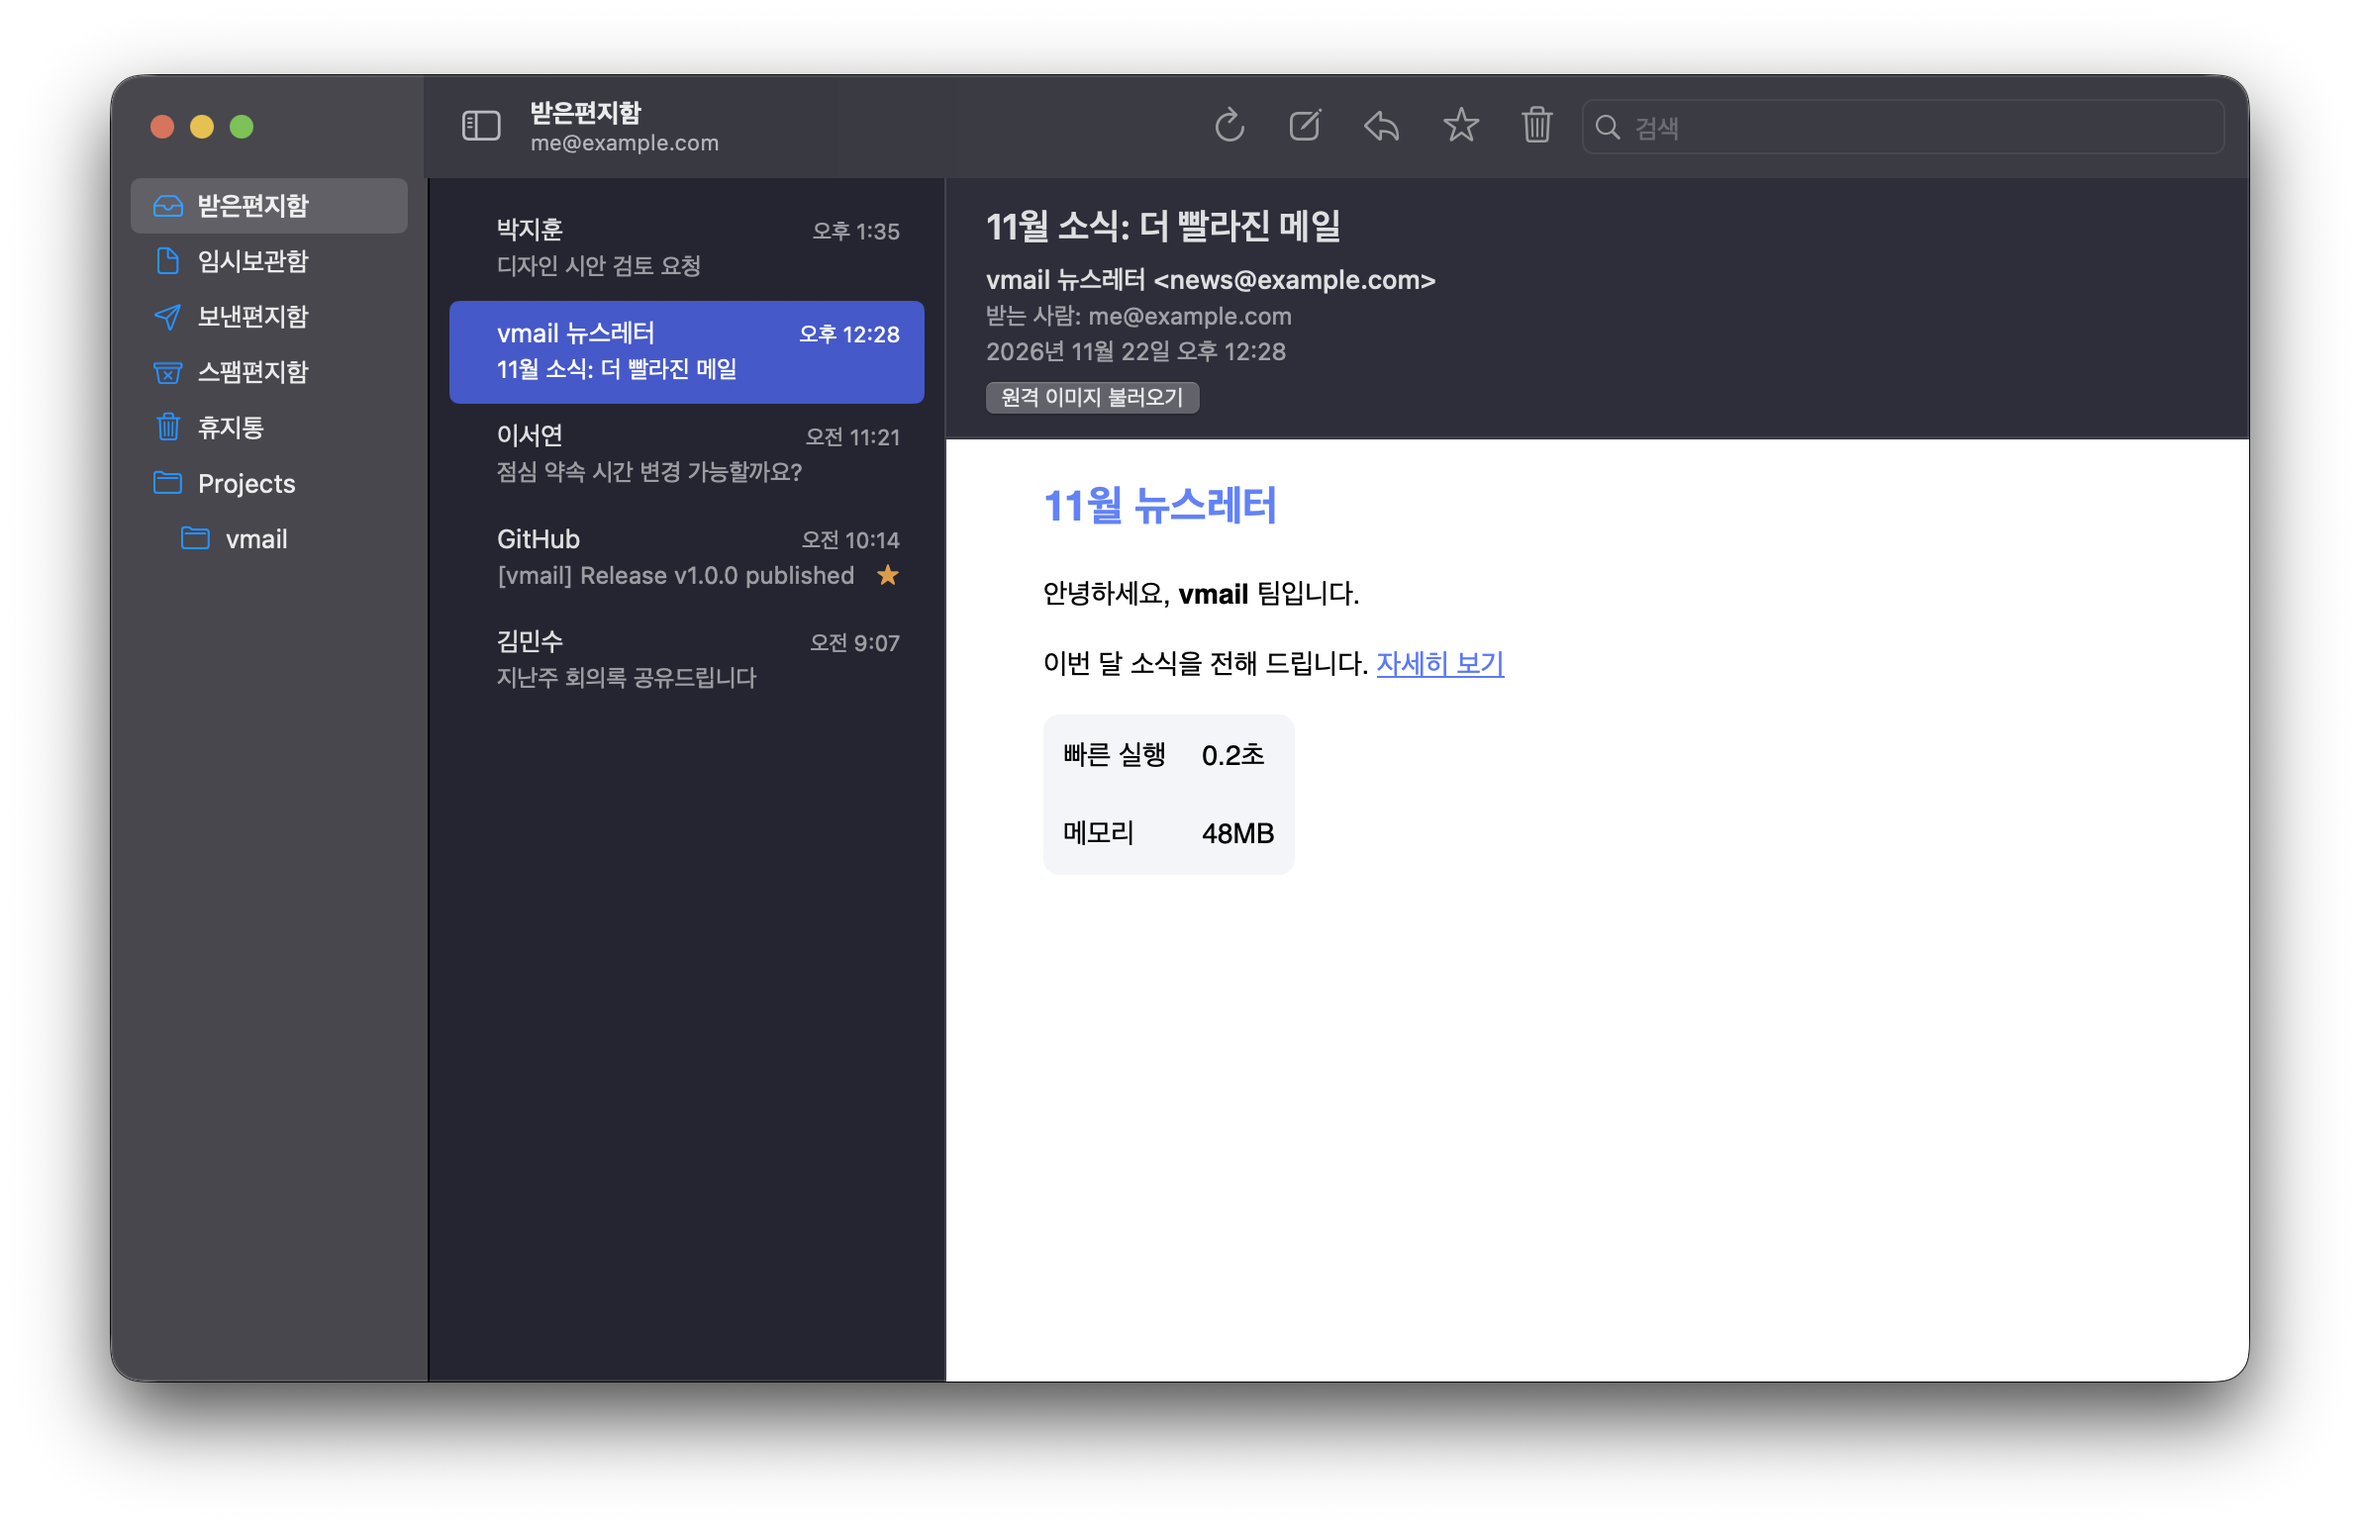
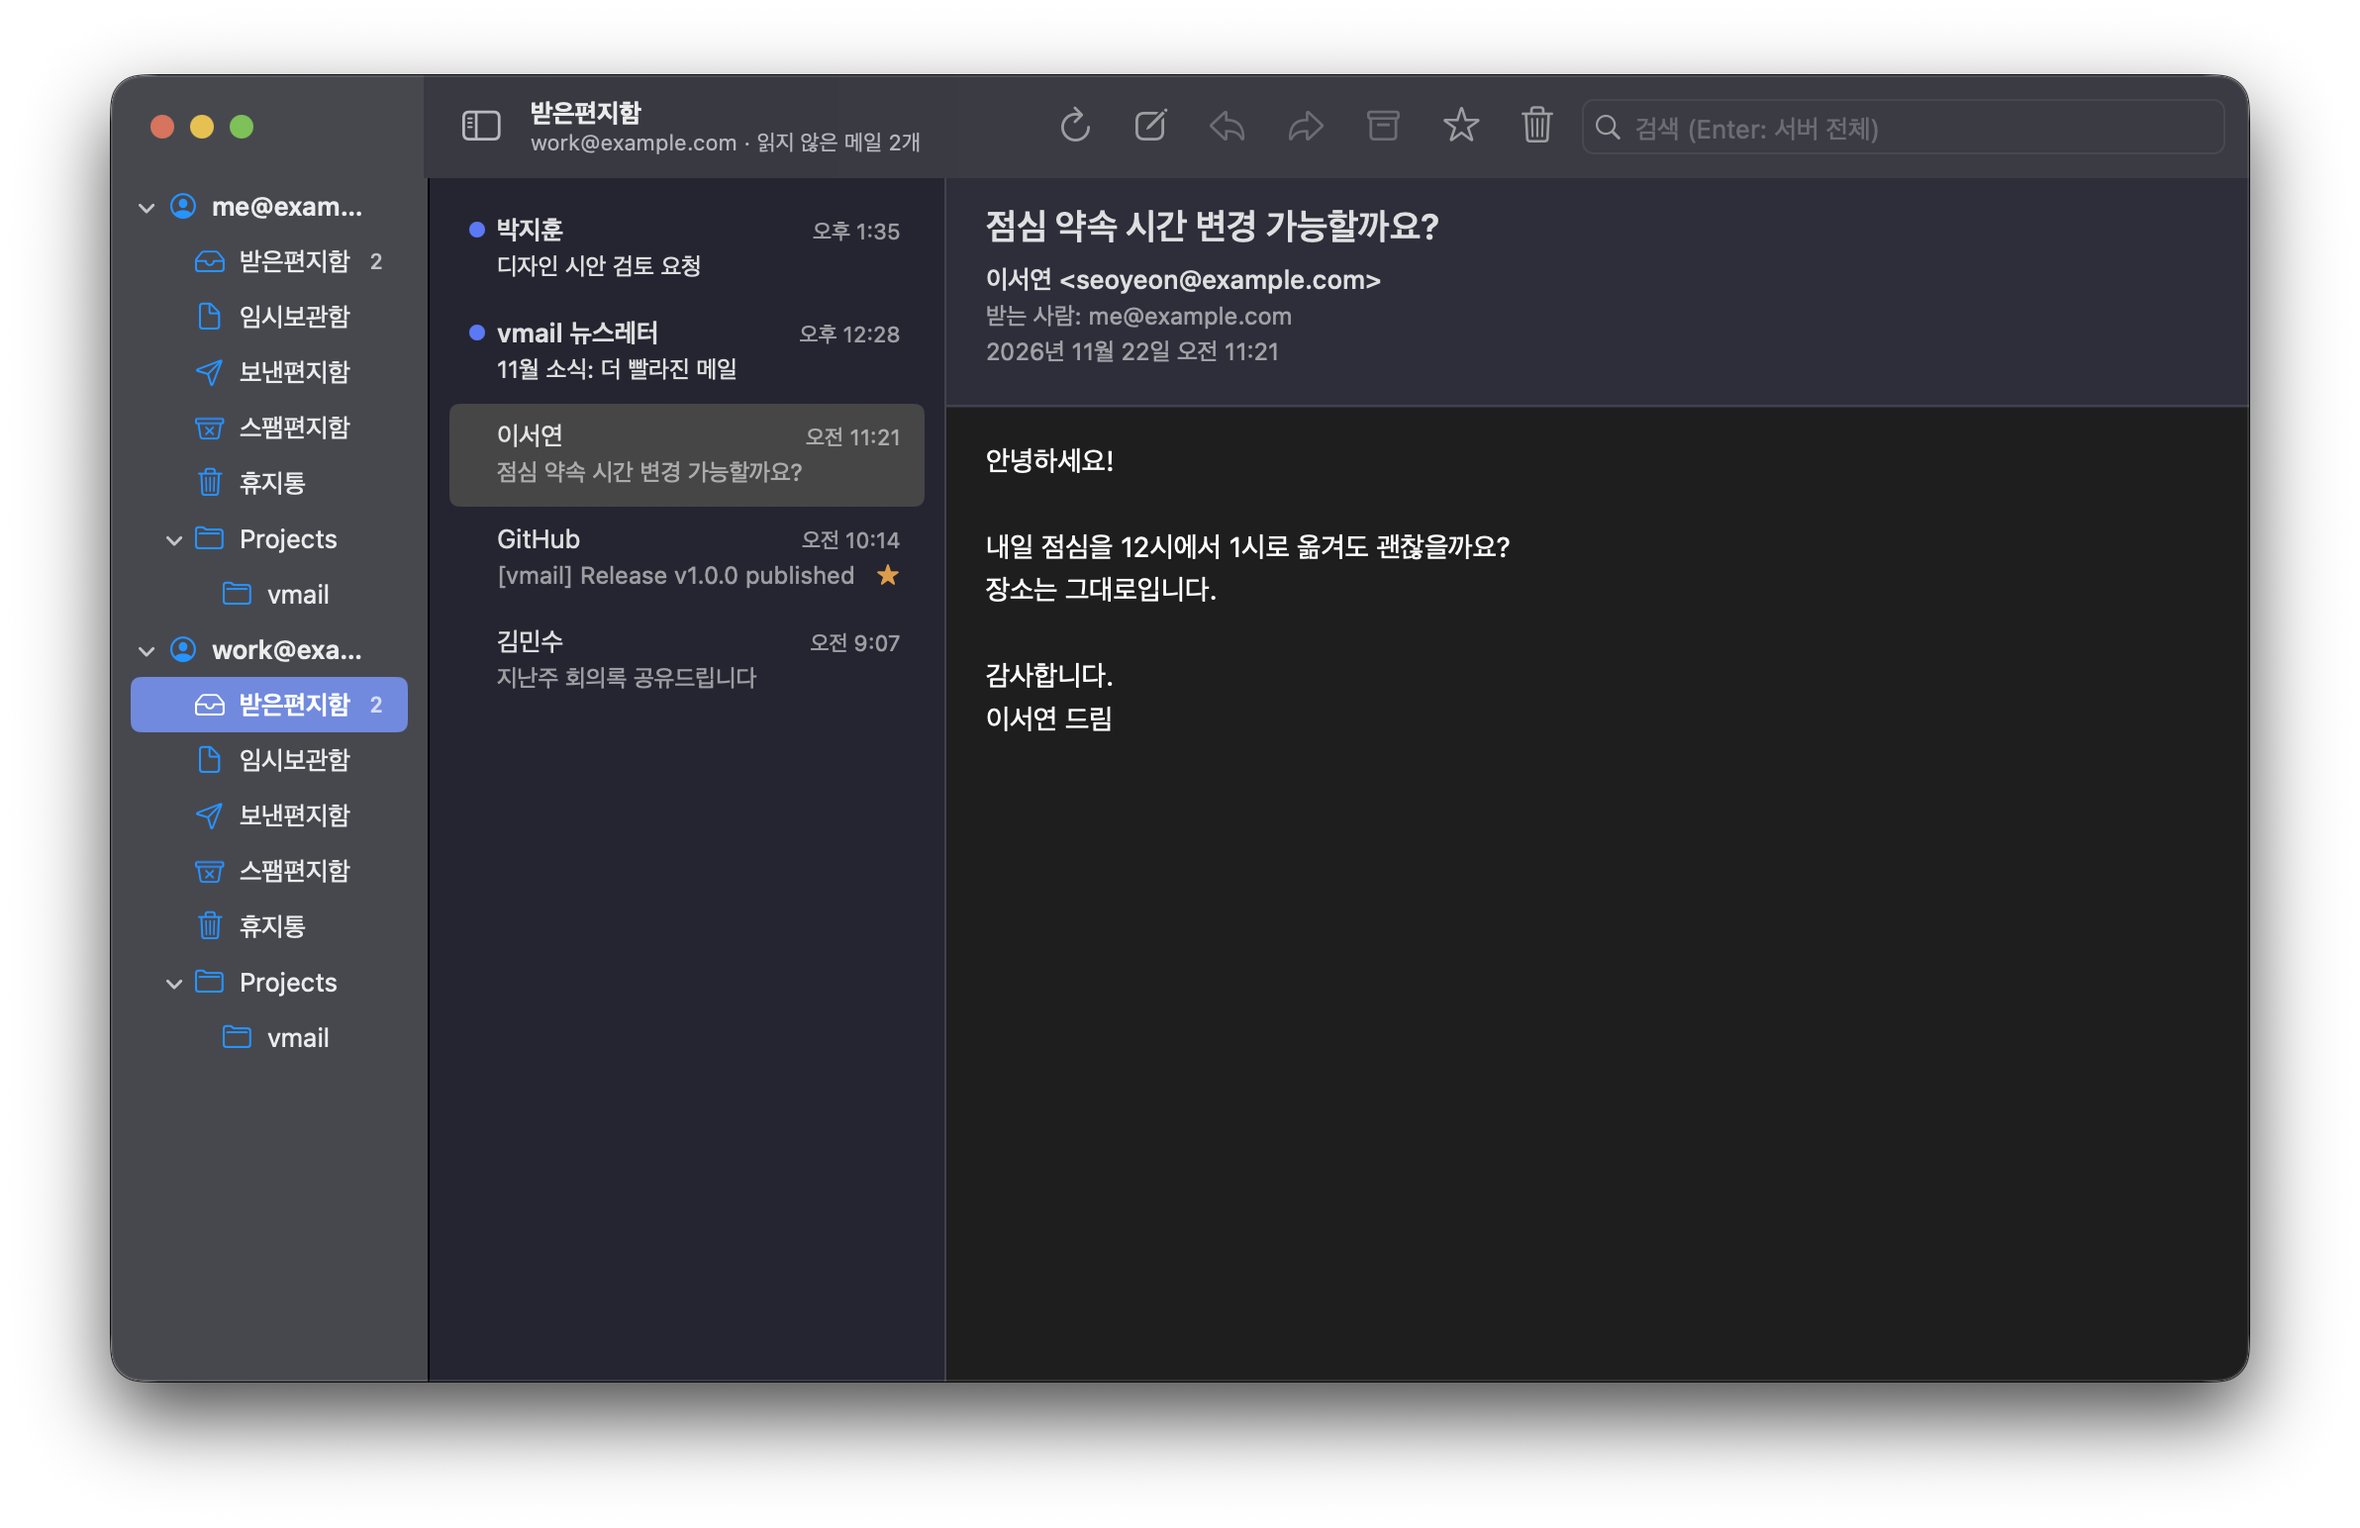
feat: 후원하기·GitHub 링크 (정보 창, 앱 메뉴, 설정 일반 탭), 랜딩·README 설치 안내 갱신

diff --git a/docs/index.html b/docs/index.html
@@ -50,6 +50,7 @@
     font: 14px/1.7 ui-monospace, "SF Mono", Menlo, monospace;
   }
   .note { text-align: center; color: var(--muted); font-size: 15px; margin-top: 18px; }
+  .note a { color: var(--accent); }
   footer { border-top: 1px solid var(--line); padding: 32px 0 48px; text-align: center; color: var(--muted); font-size: 14px; }
   footer a { color: inherit; }
 </style>
@@ -61,33 +62,36 @@
     <p class="lead">macOS를 위한 네이티브 메일 앱. 열면 바로 보이고, 필요한 것만 있습니다.</p>
     <div class="cta">
       <a class="btn" href="https://github.com/seongilp/vmail">GitHub에서 보기</a>
-      <a class="btn ghost" href="#install">직접 빌드하기</a>
+      <a class="btn ghost" href="#install">설치하기</a>
     </div>
   </header>
 
   <div class="wrap shot">
-    <img src="screenshot.png" alt="vmail 메인 화면: 사서함, 메시지 목록, 본문의 3단 구성" width="2384" height="1544">
+    <img src="screenshot.png" alt="vmail 메인 화면: 계정별 사서함 트리, 메시지 목록, 본문의 3단 구성" width="2384" height="1544">
   </div>
 
   <section class="wrap">
     <h2>필요한 건 다 있고,<br>군더더기는 없습니다.</h2>
     <div class="grid">
       <div class="card"><h3>네이티브</h3><p>AppKit과 시스템 프레임워크만 사용합니다. 외부 의존성 0개.</p></div>
+      <div class="card"><h3>여러 계정</h3><p>Gmail, iCloud, 네이버를 한 창에서. 앱 암호는 복사만 하면 로그인됩니다.</p></div>
       <div class="card"><h3>즉시 표시</h3><p>목록을 디스크에 캐시해 실행하자마자 메일이 보입니다.</p></div>
       <div class="card"><h3>안전한 본문</h3><p>스크립트는 끄고 원격 이미지는 기본 차단합니다.</p></div>
+      <div class="card"><h3>자동 분류</h3><p>규칙으로 새 메일을 옮기고, 읽음 처리하고, 정리합니다.</p></div>
+      <div class="card"><h3>부재중 응답</h3><p>기간을 정해 두면 자리를 비운 동안 대신 답장합니다.</p></div>
+      <div class="card"><h3>서버 검색</h3><p>입력하면 바로 거르고, Enter로 사서함 전체를 찾습니다.</p></div>
       <div class="card"><h3>한국어 메일</h3><p>EUC-KR·CP949 레거시 인코딩도 깨지지 않습니다.</p></div>
     </div>
   </section>
 
   <section class="wrap" id="install" style="padding-top:0">
     <h2>한 줄이면 됩니다.</h2>
-    <pre><code>git clone https://github.com/seongilp/vmail && cd vmail
-./build.sh && open -a "$(pwd)/vmail.app"</code></pre>
-    <p class="note">macOS 13 이상 · Gmail, 네이버, 다음, 카카오, iCloud 등 IMAP 계정 지원</p>
+    <pre><code>brew install --cask seongilp/tap/vmail</code></pre>
+    <p class="note">또는 <a href="https://github.com/seongilp/vmail/releases/latest">최신 DMG 내려받기</a> · macOS 13 이상 · Apple 공증 완료</p>
   </section>
 
   <footer>
-    <div class="wrap">vmail · <a href="https://github.com/seongilp/vmail">github.com/seongilp/vmail</a></div>
+    <div class="wrap">vmail · <a href="https://github.com/seongilp/vmail">GitHub</a> · <a href="https://ko-fi.com/seongilp">후원하기</a></div>
   </footer>
 </body>
 </html>

diff --git a/Sources/vmail/AppLinks.swift b/Sources/vmail/AppLinks.swift
@@ -1,0 +1,31 @@
+import AppKit
+
+/// 앱 밖으로 나가는 링크 (후원, 저장소)
+enum AppLinks {
+    static let sponsor = URL(string: "https://ko-fi.com/seongilp")
+    static let repository = URL(string: "https://github.com/seongilp/vmail")
+
+    static func open(_ url: URL?) {
+        if let url { NSWorkspace.shared.open(url) }
+    }
+
+    /// ‘vmail에 관하여’ 창: 기본 정보 아래에 후원·GitHub 링크를 넣는다.
+    static func showAboutPanel() {
+        let paragraph = NSMutableParagraphStyle()
+        paragraph.alignment = .center
+        let base: [NSAttributedString.Key: Any] = [
+            .font: NSFont.systemFont(ofSize: 11),
+            .foregroundColor: NSColor.secondaryLabelColor,
+            .paragraphStyle: paragraph,
+        ]
+        let credits = NSMutableAttributedString(string: "가볍고 빠른 macOS 네이티브 메일 앱\n\n", attributes: base)
+        for (index, link) in [("후원하기", sponsor), ("GitHub", repository)].enumerated() {
+            if index > 0 { credits.append(NSAttributedString(string: "   ·   ", attributes: base)) }
+            var attributes = base
+            if let url = link.1 { attributes[.link] = url }
+            credits.append(NSAttributedString(string: link.0, attributes: attributes))
+        }
+        NSApp.activate(ignoringOtherApps: true)
+        NSApp.orderFrontStandardAboutPanel(options: [.credits: credits])
+    }
+}

diff --git a/Sources/vmail/SettingsWindowController.swift b/Sources/vmail/SettingsWindowController.swift
@@ -89,6 +89,12 @@ final class GeneralSettingsViewController: NSViewController {
         for button in [exportButton, importButton] { button.bezelStyle = .rounded }
         form.row("설정 파일:", [exportButton, importButton])
         form.note("계정 정보·서명·규칙·보기 설정을 옮깁니다. 비밀번호는 포함되지 않습니다.", indented: false)
+        form.gap()
+        let sponsorButton = NSButton(title: "♥ 후원하기", target: nil, action: #selector(AppDelegate.openSponsorPage(_:)))
+        let githubButton = NSButton(title: "GitHub", target: nil, action: #selector(AppDelegate.openRepository(_:)))
+        for button in [sponsorButton, githubButton] { button.bezelStyle = .rounded }
+        form.row("vmail:", [sponsorButton, githubButton])
+        form.note("vmail은 무료 오픈 소스입니다. 후원은 개발을 이어 가는 데 큰 힘이 됩니다.", indented: false)
         view = form.makeView()
     }
 

diff --git a/Sources/vmail/MainMenu.swift b/Sources/vmail/MainMenu.swift
@@ -31,7 +31,9 @@ enum MainMenu {
 
     private static func appMenu() -> NSMenu {
         let menu = NSMenu()
-        menu.addItem(item("vmail에 관하여", #selector(NSApplication.orderFrontStandardAboutPanel(_:))))
+        menu.addItem(item("vmail에 관하여", #selector(AppDelegate.showAbout(_:))))
+        menu.addItem(item("후원하기…", #selector(AppDelegate.openSponsorPage(_:))))
+        menu.addItem(item("GitHub 저장소", #selector(AppDelegate.openRepository(_:))))
         menu.addItem(.separator())
         menu.addItem(item("설정…", #selector(AppDelegate.showSettings(_:)), ","))
         menu.addItem(item("계정…", #selector(AppDelegate.showAccounts(_:))))

diff --git a/Sources/vmail/AppDelegate.swift b/Sources/vmail/AppDelegate.swift
@@ -72,6 +72,18 @@ final class AppDelegate: NSObject, NSApplicationDelegate {
         mainWindowController?.showAccountSheet()
     }
 
+    @objc func showAbout(_ sender: Any?) {
+        AppLinks.showAboutPanel()
+    }
+
+    @objc func openSponsorPage(_ sender: Any?) {
+        AppLinks.open(AppLinks.sponsor)
+    }
+
+    @objc func openRepository(_ sender: Any?) {
+        AppLinks.open(AppLinks.repository)
+    }
+
     @objc func exportSettings(_ sender: Any?) {
         guard let window = NSApp.keyWindow ?? mainWindowController?.window else { return }
         transfer.export(from: window)
